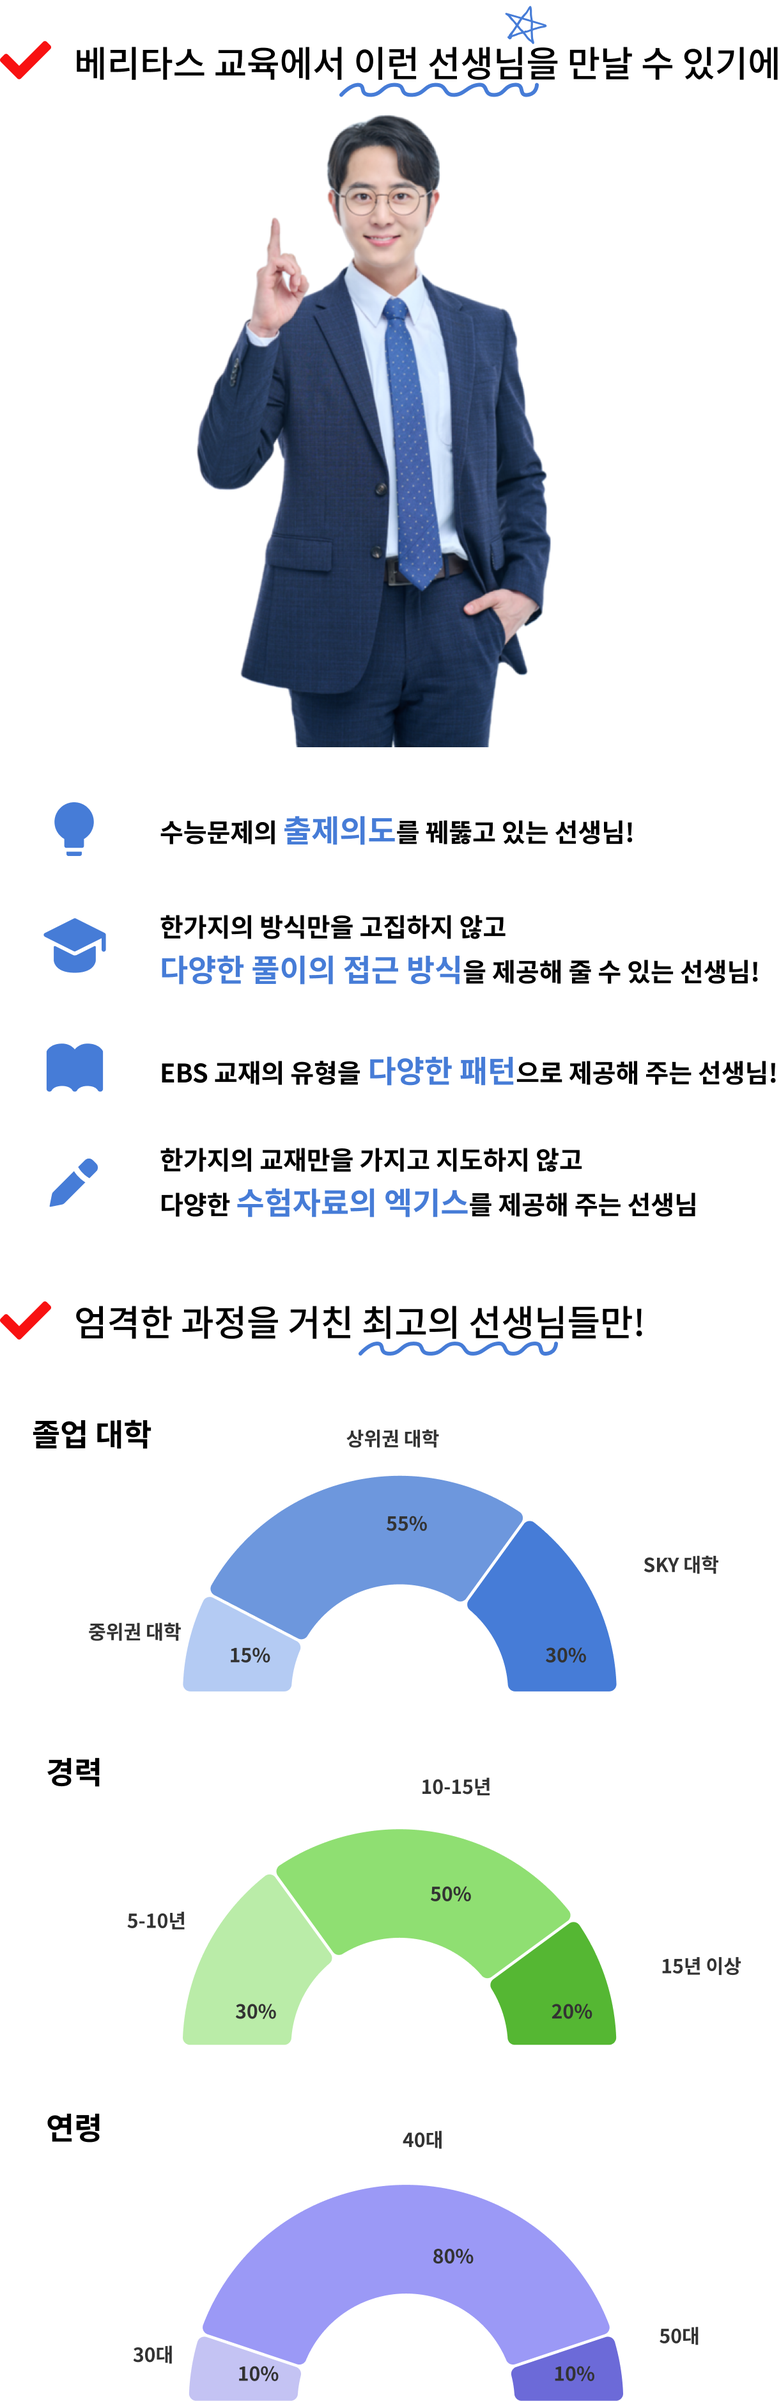
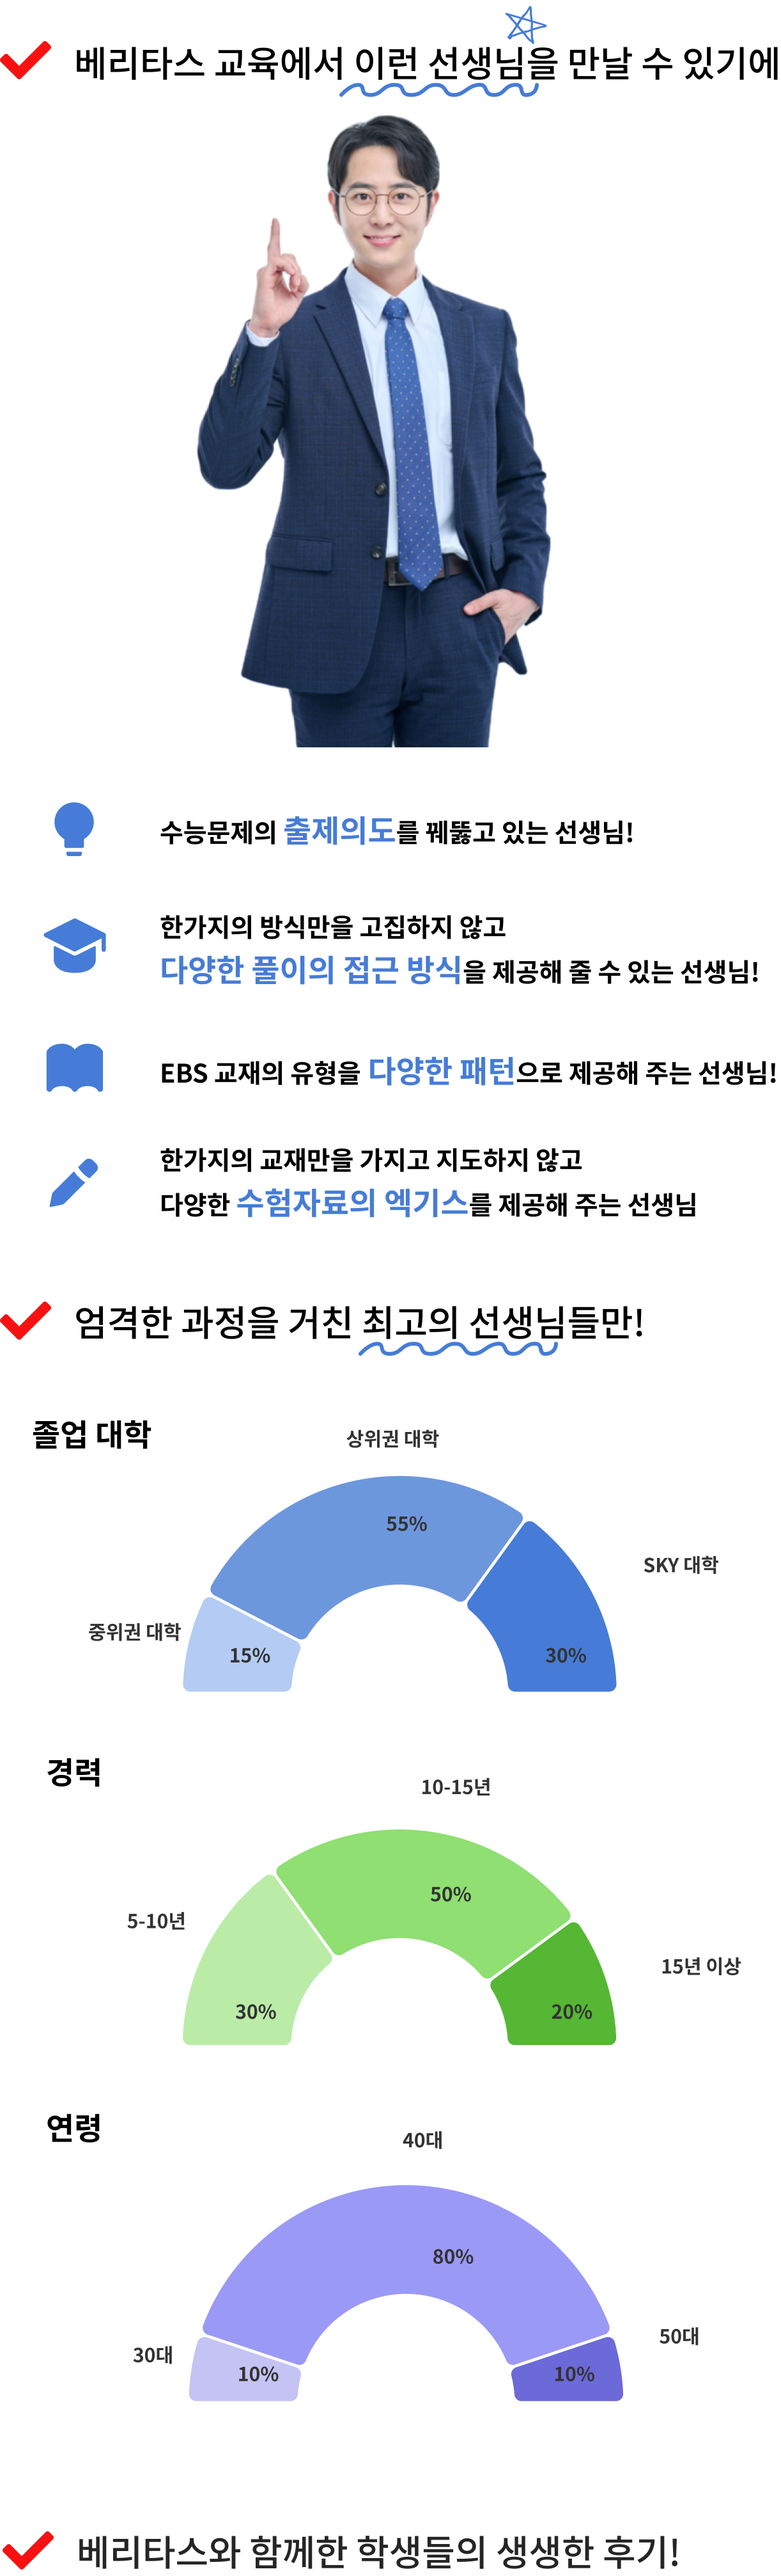
fix:슬라이더 교체

diff --git a/src/app/education/teacher/page.tsx b/src/app/education/teacher/page.tsx
@@ -1,9 +1,10 @@
 import React from 'react';
 
 import Image from 'next/image';
+import Link from 'next/link';
 
+import ReviewCarousel from '@/components/common/antd/ReviewCarousel';
 import Breadcrumb from '@/components/common/Breadcrumb';
-import Slider from '@/components/common/Slider';
 
 export default function Page() {
   return (
@@ -39,10 +40,16 @@ export default function Page() {
             className="w-full md:hidden"
           />
         </section>
-        <div className="mt-12">
-          <div className="max-lg:hidden">
+        <div className="mt-12 w-full">
+          {/* <div className="max-lg:hidden">
             <Slider type="teacher" />
-          </div>
+          </div> */}
+          <ReviewCarousel />
+        </div>
+        <div className="mt-4 flex justify-end w-full">
+          <Link href={'/review'} className=" text-lg text-center p-2 text-white rounded bg-blue-4">
+            후기 더보기 →
+          </Link>
         </div>
       </div>
     </div>

diff --git a/src/components/common/antd/ReviewCarousel.tsx b/src/components/common/antd/ReviewCarousel.tsx
@@ -1,0 +1,29 @@
+import React from 'react';
+
+import {Carousel} from 'antd';
+import Image from 'next/image';
+
+const teacher_reviews = [
+  '/teacher/reviews/pc/review_pc_1.svg',
+  '/teacher/reviews/pc/review_pc_2.svg',
+  '/teacher/reviews/pc/review_pc_3.svg',
+  '/teacher/reviews/pc/review_pc_4.svg',
+  '/teacher/reviews/pc/review_pc_5.svg',
+  '/teacher/reviews/pc/review_pc_6.svg',
+  '/teacher/reviews/pc/review_pc_7.svg',
+  '/teacher/reviews/pc/review_pc_8.svg',
+];
+
+function ReviewCarousel() {
+  return (
+    <Carousel autoplay autoplaySpeed={6000}>
+      {teacher_reviews.map((img, i) => (
+        <div key={i}>
+          <Image src={img} alt="" width={0} height={0} sizes="100" className="w-full" />
+        </div>
+      ))}
+    </Carousel>
+  );
+}
+
+export default ReviewCarousel;

diff --git a/src/components/common/Slider.tsx b/src/components/common/Slider.tsx
@@ -52,7 +52,7 @@ function Slider({type}: {type: 'main' | 'teacher'}) {
       const newSlide = prev + 1;
       if (slideRef.current) {
         slideRef.current.style.transition = 'all 0.5s ease-in-out';
-        slideRef.current.style.transform = `translateX(-${newSlide * slideObj[type].size[0]}px)`;
+        slideRef.current.style.transform = `translateX(-${newSlide * (100 / cloneContents.length)}%)`;
         if (newSlide > lastSlide) {
           slideRef.current.style.transition = '';
           slideRef.current.style.transform = `translateX(-0px)`;
